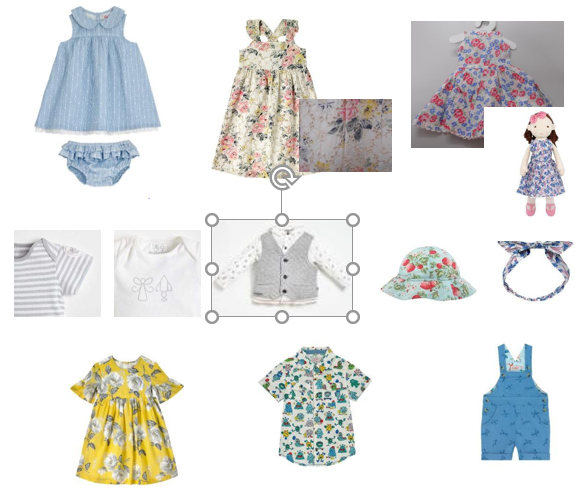
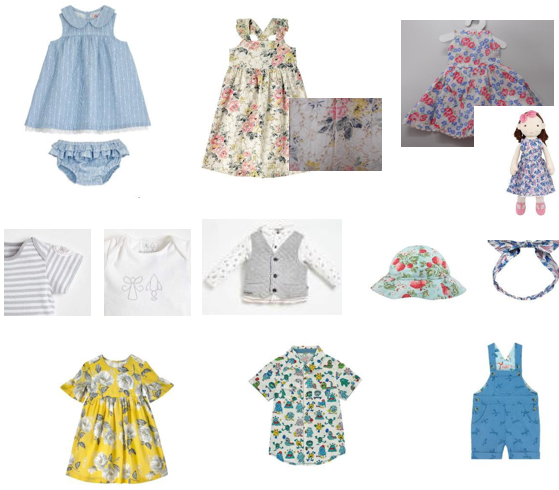
ajout images responsives

diff --git a/produits.html b/produits.html
@@ -135,7 +135,10 @@
 
         </div>
         <div class="main__center text">
-            <div class="item"><img src="assets/produits/catégorieProduits.PNG" alt="les catégories de produits"></div>
+            <div class="item"><img srcset="assets/produits/catégorieProduits-vMobile399.PNG 399w,
+                assets/produits/catégorieProduits.PNG 547w"
+                sizes="(max-width: 882px)399px, 547px"
+                src="assets/produits/catégorieProduits.PNG" alt="les catégories de produits"></div>
             <div class="item">
                 <h1 id="pap">Prêt-à-porter féminin</h1>
                 <p>Véritable expertise sur le Chaîne & Trame flou, les borderies et les imprimés, nous travaillons avec
@@ -143,7 +146,10 @@
                     usines spécialisées dans les matières délicates comme la viscose chiffon, le voile de coton, la
                     soie…
                 </p>
-                <img src="assets/produits/Pap.PNG" alt="Prêt-à-porter">
+                <img srcset="assets/produits/Pap-vMobile400.PNG 400w,
+                assets/produits/Pap.PNG 580w"
+                sizes="(max-width: 882px)400px, 580px"
+                src="assets/produits/Pap.PNG" alt="Prêt-à-porter">
             </div>
 
             <div class="item">
@@ -160,7 +166,10 @@
                     EMS –
                     140001/ the HIGG Index et sont également en mesure de proposer du cuir végétal.
                 </p>
-                <img src="assets/produits/cuir.PNG" alt="cuir">
+                <img srcset="assets/produits/cuir-vMobile400.PNG 400w,
+                assets/produits/cuir.PNG 564w"
+                sizes="(max-width: 882px)400px, 564px"
+                 src="assets/produits/cuir.PNG" alt="cuir">
             </div>
             <div class="item">
                 <h1 id="accessoires">Accessoires</h1>
@@ -170,14 +179,20 @@
                 <p>Tous les cuirs proposés sont agréés par LGW et peuvent proposer du cuir végétal. Idem pour les
                     écharpes nous travaillons sur des matières recyclées comme la laine et le polysester.
                 </p>
-                <img src="assets/produits/accessoires.PNG" alt="Accessoires">
+                <img srcset="assets/produits/accessoires-vMobile396.PNG 396w,
+                assets/produits/accessoires.PNG 574w"
+                sizes="(max-width: 882px)396px, 574px"
+                src="assets/produits/accessoires.PNG" alt="Accessoires">
             </div>
             <div class="item">
                 <h1 id="enfant">Production pour les enfants et bébés</h1>
                 <p>Nos usines respectent les réglementations techniques et qualitatives en terme de production pour la
                     fabrication des vêtements et accessoires pour enfants et bébés.
                 </p>
-                <img src="assets/produits/habitsEnfants.PNG" alt="habits pour enfants">
+                <img srcset="assets/produits/habitsEnfants-vMobile397.PNG 397w,
+                assets/produits/habitsEnfants.PNG 559w"
+                sizes="(max-width: 882px)397px, 559px"
+                src="assets/produits/habitsEnfants.PNG" alt="habits pour enfants">
             </div>
             
 

diff --git a/nosServices.html b/nosServices.html
@@ -157,7 +157,10 @@
                     usines en fonction de leur savoir-faire.
                     Nous développons également nos propres imprimés et proposons des nouveautés tous les mois.
                 </p>
-                <img src="assets/nosServices/matière.PNG" alt="matérère de nos habits">
+                <img srcset="assets/nosServices/matière-vMobile397.PNG 397w,
+                assets/nosServices/matière.PNG 593w"
+                sizes="(max-width: 882px) 397px , 593px"
+                 src="assets/nosServices/matière.PNG" alt="matérère de nos habits">
             </div>
             <div class="item">
                 <h1 id="dlpmt">Création et Développement produit</h1>
@@ -171,7 +174,10 @@
                     Nous apportons des nouveautés tous les mois afin
                     d’être au plus proche des dernières tendances.
                 </p>
-                <img src="assets/nosServices/croquisHabits.PNG" alt="habits et croquis">
+                <img srcset="assets/nosServices/croquisHabits-vMobile400.PNG 400w,
+                assets/nosServices/croquisHabits.PNG 588w"
+                sizes="(max-width: 882px) 400px, 588px"
+                src="assets/nosServices/croquisHabits.PNG" alt="habits et croquis">
             </div>
 
 
@@ -182,7 +188,10 @@
                     les
                     vêtements que pour les accessoires.
                 </p>
-                <img src="assets/nosServices/usines.PNG" alt="Atelier d'échantillonnage">
+                <img srcset="assets/nosServices/usines-vMobile397.PNG 397w,
+                assets/nosServices/usines.PNG 559w"
+                sizes="(max-width: 882px) 397px,559px"
+                src="assets/nosServices/usines.PNG" alt="Atelier d'échantillonnage">
             </div>
             <div class="item">
                 <h1 id="qualite">Contrôle Qualité</h1>

diff --git a/nosBureau.html b/nosBureau.html
@@ -134,15 +134,22 @@
         <div class="main__asideLeft">
 
         </div>
-        <div class="main__center text item">
+        <div class="main__center item">
         
-            <div class="align_right"><img src="assets/nosBureau/nosBureau-842.jpg" alt="bureau" />
+            <div class="align_right"><img srcset="
+                assets/nosBureau/nosBureau-842.jpg 842w,
+                assets/nosBureau/nosBureau-vMobile396.jpg 396w"
+                sizes="(max-width: 882px ) 396px, 842px"
+                src="assets/nosBureau/nosBureau-842.jpg" alt="bureau" />
                 <p class="marginO">France</p>
                 <p class="marginO">20, rue de Belfort</p>
                 <p class="marginO">75011 Paris</p>
                 <p class="marginO">Phone: + 33 1 48 87 90 95</p>
             </div>
-            <div class="align_left"><img src="assets/nosBureau/nosBureau2-886.jpg" alt="Bureau" />
+            <div class="align_left"><img srcset="assets/nosBureau/nosBureau2-886.jpg 886w,
+                assets/nosBureau2-vMobile399.jpg 399w"
+                sizes="(max-width: 882px) 399px , 886px "
+                src="assets/nosBureau/nosBureau2-886.jpg" alt="Bureau" />
                 <p>India</p>
                 <p>AFI BA Pvt. Ltd.
                 </p>

diff --git a/durable.html b/durable.html
@@ -146,7 +146,10 @@
                     différentes matières durables avec des certifications
                     internationales et ce pour les vêtements et également pour les accessoires.
                 </p>
-                <img src="assets/produits/LogoDurable.PNG" alt="enseigne développement durables">
+                <img srcset="assets/durables/LogoDurable-vMobile397.PNG 397w,
+                assets/durables/LogoDurable.PNG 537w"
+                sizes="(max-width: 882px)397px, 537px"
+                src="assets/durables/LogoDurable.PNG" alt="enseigne développement durables">
             </div>
 
         </div>

diff --git a/style.css b/style.css
@@ -191,6 +191,7 @@ a{
 }
 .text{
     font-family: Arial, Helvetica, sans-serif;
+    text-align: center;
 }
 .align_right{
     display: flex;

diff --git a/style_mobile.css b/style_mobile.css
@@ -24,6 +24,7 @@
     flex-wrap: wrap;
     font-size: 10px;
 }
-.main__center{
-    font-size: 30px;
+li:hover{
+    font-size: 12px;
+    
 }
